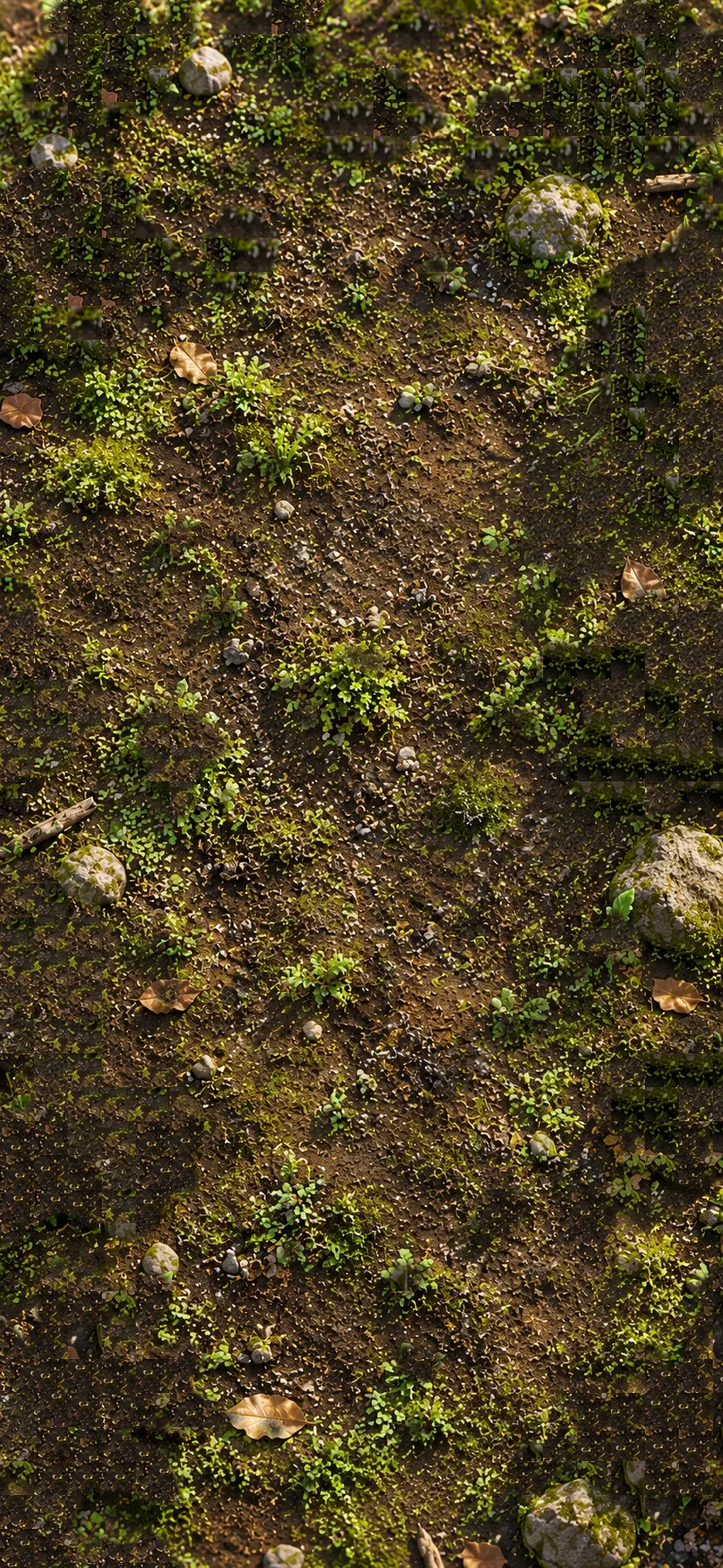
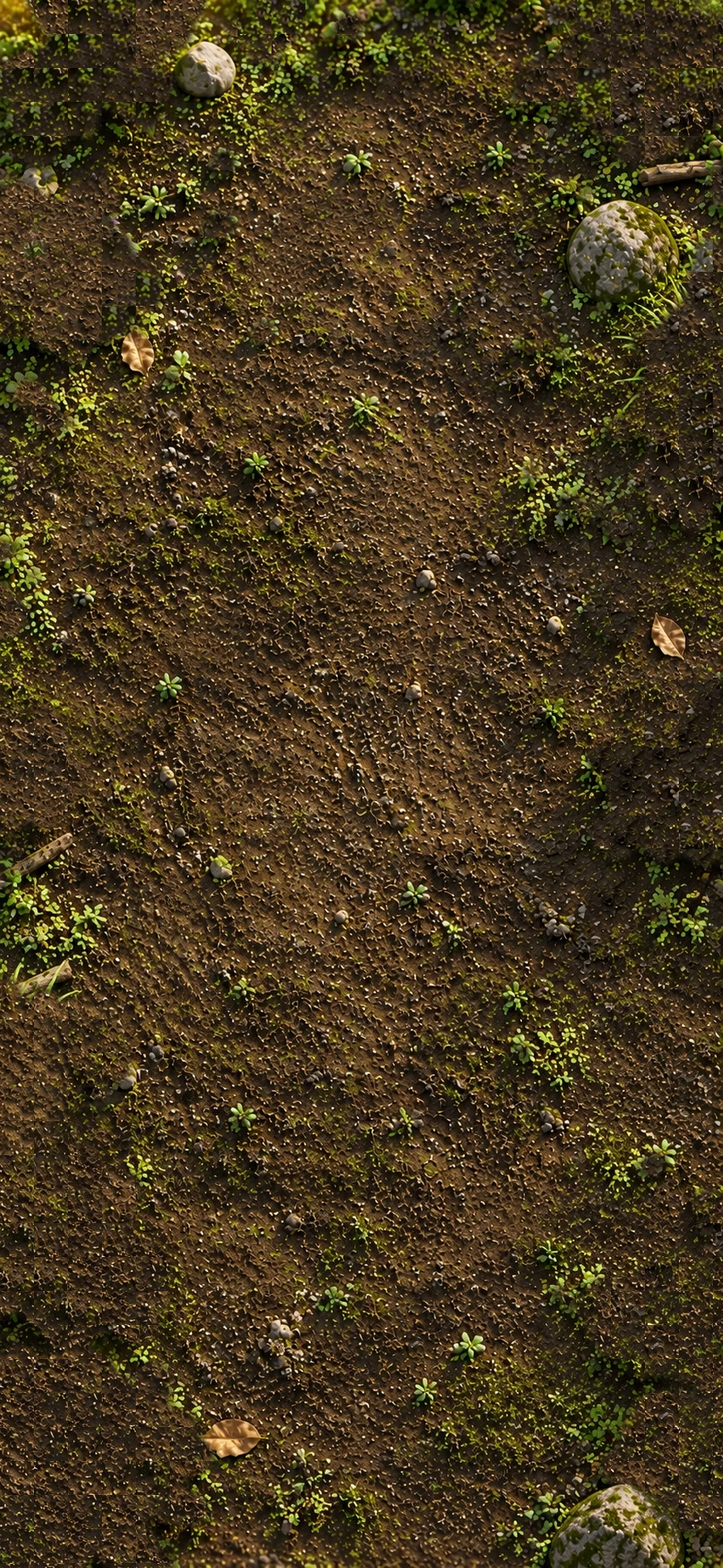
昼の背景を、届いた新しい昼の写真に入れ替える。夜の写真も取り込む (まだ使わない)
- 昼: img/source/ground-day.png → img/ground.webp。make-ground.js で草むらを土に置き換えた img/ground-soil.webp を作り直した
  (新しい写真は草が左右のふちにまとまっていて、検出がよく合う。前の写真の岩・強制範囲の座標は合わなくなったので、
  新しい写真に合わせて ROCKS (3 つ)・FORCE (赤い草・細い葉) を書き直した)
- 夜: img/source/ground-night.png を取り込んだ。夜の庭を作るときに使う (昼と同じ構図)
実寸のゲーム画面で、植えた草が土に浮くことを確かめた。
npm test 39件、npm run test:ui 116件合格。版 2026-10-04g

Claude-Session: https://claude.ai/code/session_01GTnyi6j6ChVEuThwNhLdn6

diff --git a/make-ground.js b/make-ground.js
@@ -17,10 +17,10 @@ const ROOT = __dirname;
 const PORT = 8144;
 
 /** 守る岩 [中心x, 中心y, 半径x, 半径y] (写真の座標) */
-const ROCKS = [[240, 82, 36, 32], [62, 180, 32, 28], [652, 255, 62, 52], [105, 1030, 46, 42], [795, 1045, 82, 76], [680, 1830, 70, 58], [190, 1482, 26, 26]];
+const ROCKS = [[240, 82, 38, 34], [730, 285, 66, 52], [725, 1832, 82, 62]];
 
 /** 色では拾いきれなかった草 (赤い草・細い葉) を、範囲で指定して置き換える [中心x, 中心y, 半径x, 半径y] */
-const FORCE = [[790, 815, 95, 105], [790, 365, 90, 60], [45, 1140, 75, 120], [60, 240, 50, 40]];
+const FORCE = [[797, 890, 78, 104], [92, 1240, 46, 56]];
 
 function inPage(args) {
   const { rocks, force } = args;

diff --git a/app.js b/app.js
@@ -10,7 +10,7 @@
 
   const C = window.Core;
   const SAVE_KEY = 'kusa.save.v1';
-  const VERSION = '2026-10-04f'; // 直したら上げる。実機で「届いているか」を確かめるため、図鑑のいちばん下に出す
+  const VERSION = '2026-10-04g'; // 直したら上げる。実機で「届いているか」を確かめるため、図鑑のいちばん下に出す
 
   const $ = (id) => document.getElementById(id);
   const els = {

diff --git a/CLAUDE.md b/CLAUDE.md
@@ -40,11 +40,11 @@
 
 ### 見た目の方向 (アートディレクション)
 
-- **苔と小石と落ち葉のある、本物の地面に草を植えていく。** ユーザーの見本 (`img/source/mock-01.png`) がゴール。地面は写真 (`img/ground.webp`, 元は `img/source/ground-02.png`。縦横の比が iPhone 16 Plus と同じ) を画面いっぱいに敷く
+- **苔と小石と落ち葉のある、本物の地面に草を植えていく。** ユーザーの見本 (`img/source/mock-01.png`) がゴール。地面は写真 (`img/ground.webp`, 元は `img/source/ground-day.png` = 昼。縦横の比が iPhone 16 Plus と同じ 852x1846) を画面いっぱいに敷く。**夜の版 (`img/source/ground-night.png`) も届いていて、まだ使っていない** (夜の庭を作るときに使う。昼と同じ構図)。前の昼 (`ground-02.png`) は残してある
 - 上の札 (題字・図鑑・コイン) と下の木の板 (「売る」「種をまく」) は**ユーザーの絵** (`img/ui/*.webp`)。`cut-ui.js` がボタンのシート (`img/source/ui-sheet-01.png`) から切り出す。
   図鑑とコインの数字は遊ぶと変わるので、絵から消して (`erase`) 上に字で書く。**数字の枠は絵の白地いっぱいで、桁が増えると入りきらない**: `app.js` の `fitNum` が枠に収まるまで font-size を縮める (折り返さない。図鑑は「28/35」と詰める)。コインは 1 万以上を「1.2万」と短くする (`coinText`)。下のボタンは字も絵のまま使い、その位置に透明なボタンを重ねる (位置は絵の中の割合)
 - 書体: 題字・草の名前・案内文は明朝 (`--font-display`)、操作の文字はゴシック (`--font-ui`)。数字は桁をそろえる。Google Fonts が読めなくても端末の明朝・ゴシックで出る
-- **背景は、元の写真の草むらを土に置き換えた版 (`img/ground-soil.webp`) を敷く。** 写真にも草が写っていて、そのままだと植えた草と混ざって見分けがつかなかった。土が主役なら、植えた草の緑がそのまま浮く。置き換えは `make-ground.js`: 草の固まり (緑の葉・紫/青/白/黄の花・赤い茎) を色で見つけ、細かい苔は残し、岩 (`ROCKS`) は守り、色で拾えない草は `FORCE` で範囲を指定する。残った土・落ち葉・小石・岩・苔はそのままなので、質感は元の写真のまま
+- **背景は、元の写真の草むらを土に置き換えた版 (`img/ground-soil.webp`) を敷く。** 写真にも草が写っていて、そのままだと植えた草と混ざって見分けがつかなかった。土が主役なら、植えた草の緑がそのまま浮く。置き換えは `make-ground.js`: 草の固まり (緑の葉・紫/青/白/黄の花・赤い茎) を色で見つけ、細かい苔は残し、岩 (`ROCKS`) は守り、色で拾えない草は `FORCE` で範囲を指定する (**`ROCKS` と `FORCE` は写真ごとの手書きの座標**。写真を替えたら、検出の見本 `img/cells/ground-mask.png` を見て書き直す)。残った土・落ち葉・小石・岩・苔はそのままなので、質感は元の写真のまま
 - **草を植えたマスには、掘り返した土 (`plants.js` の `tilled`) を敷く。** 背景の写真にも草が写っているので、植えた草と見分けるため
 - 生きている感じ: 草は風にそよぐ (`sway`)、光の中を細かい粒が漂う (`#air .speck`)。transform / rotate / opacity だけで動かす
 - 図鑑・発見・拡大は「標本の台紙」: 紙の地、紙テープで留めた標本、明朝の名前、判子のようなレア度
